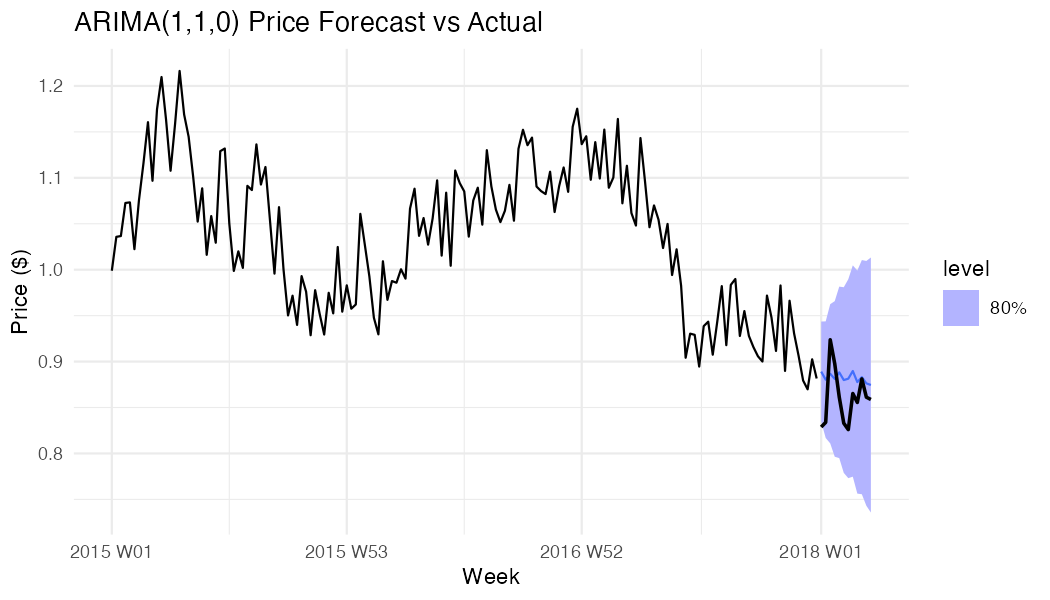
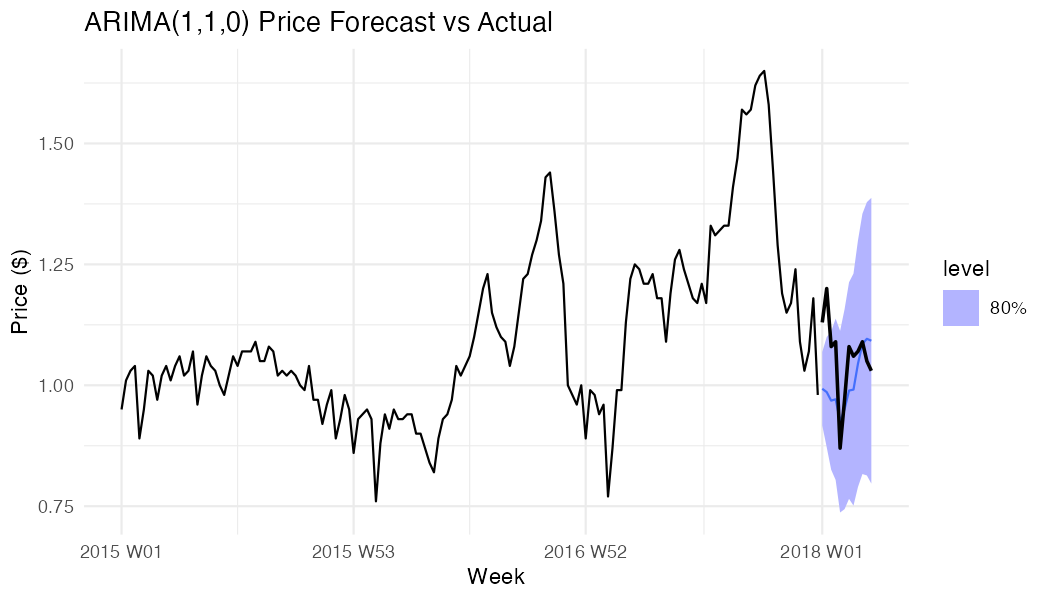
Restructure: move data to dataset/, add future modelling section
- Move avocado.csv to dataset/avocado.csv
- Update all code paths (Rmd, scripts)
- Add dataset/README.md for data documentation
- Add 'Current State' and 'Future Modelling Strategies' sections to README
- Regenerate figures with real data

Made-with: Cursor

diff --git a/Avocado_Project/avocado_forecasting_paper.tex b/Avocado_Project/avocado_forecasting_paper.tex
@@ -841,7 +841,8 @@ Based on our analysis:
 
 \begin{verbatim}
 Operations_Mgmt_Project/
-|-- avocado.csv                      # Raw data
+|-- dataset/
+|   |-- avocado.csv                  # Raw data
 |-- Avocado_Consolidated_Report.Rmd  # Main analysis code
 |-- export_figures_tables.R          # Figure/table export script
 |-- figures/                         # Exported visualizations (PNG/PDF)

diff --git a/README.md b/README.md
@@ -88,6 +88,33 @@ Ljung-Box on ARIMA(1,1,0) residuals: p ≈ 0.86. Residuals consistent with white
 - **Forecast difficulty:** Lower-volume PLU 4770 (median ~700K/week) has higher MAPE (13.9%) than high-volume 4046 (10.9M/week, 7.1%). Fewer units and larger relative shocks make small-volume series harder to forecast.
 - **Business impact:** For $1M weekly avocado revenue, ARIMA reduces forecast error by ~$20K/week vs Naive. At scale, this supports substantial inventory and waste reduction.
 
+## Current State and Where We Left Off
+
+The project delivers production-ready ARIMA models for price and volume forecasting. We completed:
+
+- Full EDA and ACF/PACF-driven model selection
+- ARIMA(1,1,0) for price and ARIMA(0,1,1) for volume and all PLUs
+- Baseline comparison (SES, Naive, Bayesian AR(1))
+- Residual diagnostics and Ljung-Box validation
+- 12-week out-of-sample evaluation and business-value translation
+
+The Bayesian AR(1) on differenced log-prices was tested but underperformed due to cumulative reconstruction error; SARIMA was evaluated but did not improve AICc with ~3 years of data.
+
+## Future Modelling Strategies
+
+Extensions that could improve or extend the current work:
+
+| Direction | Description |
+|-----------|-------------|
+| **SARIMA with more data** | Once 5+ years of data are available, seasonal ARIMA at period 52 may capture annual patterns (e.g. Super Bowl, harvest cycles) more reliably. |
+| **Prophet / ETS with seasonality** | Additive seasonality models (Prophet, ETS with seasonal terms) could handle weekly and annual patterns without the parameter burden of SARIMA. |
+| **Exogenous variables** | Incorporate weather (drought, frost), trade policy (tariffs), and supply-side shocks as regressors in ARIMAX or dynamic regression. |
+| **Regional hierarchical models** | Model TotalUS as an aggregate of regional forecasts, or use hierarchical time series (e.g. `hts`) for coherent national and regional predictions. |
+| **Bayesian ARIMA** | Full Bayesian ARIMA (e.g. via `brms` or Stan) for proper uncertainty quantification without the reconstruction issues of the current AR(1) on differenced log-prices. |
+| **Neural / ML baselines** | LSTM, N-BEATS, or similar for comparison; useful if non-linear patterns or long-range dependencies matter. |
+| **Ensemble methods** | Combine ARIMA with ETS or Prophet via simple averaging or stacking to reduce forecast variance. |
+| **Demand segmentation** | Separate models for organic vs conventional, or bagged vs bulk, if category-level forecasts are needed. |
+
 ## Recommendations
 
 - Use ARIMA(1,1,0) for price and ARIMA(0,1,1) for volume and all PLUs.
@@ -99,7 +126,7 @@ Ljung-Box on ARIMA(1,1,0) residuals: p ≈ 0.86. Residuals consistent with white
 
 ```r
 install.packages(c("fable", "tsibble", "feasts", "fabletools", "tidyverse", "brms", "gt"))
-# If avocado.csv is missing, run: source("scripts/fetch_or_generate_data.R")
+# If dataset/avocado.csv is missing, run: source("scripts/fetch_or_generate_data.R")
 rmarkdown::render("avocado_forecasting_analysis.Rmd")
 # Regenerate README figures: Rscript scripts/run_analysis_and_figures.R
 ```
@@ -110,7 +137,9 @@ Data: [Kaggle Avocado Prices](https://www.kaggle.com/datasets/neuromusic/avocado
 
 ```
 Avocado Project/
-├── avocado.csv                       # Raw data (from Kaggle)
+├── dataset/
+│   ├── avocado.csv                   # Raw data (from Kaggle)
+│   └── README.md                     # Data documentation
 ├── avocado_forecasting_analysis.Rmd   # Main analysis (recommended)
 ├── avocado_plu_forecasting.Rmd       # PLU-only ARIMA workflow
 ├── scripts/

diff --git a/dataset/README.md b/dataset/README.md
@@ -1,0 +1,11 @@
+# Dataset
+
+## avocado.csv
+
+Hass Avocado Board retail scanner data. Weekly prices and volumes across 54 U.S. regions, January 2015 – March 2018.
+
+**Source:** [Kaggle – Avocado Prices](https://www.kaggle.com/datasets/neuromusic/avocado-prices)
+
+**Columns:** Date, AveragePrice, Total Volume, 4046, 4225, 4770, Total Bags, Small Bags, Large Bags, XLarge Bags, type, year, region
+
+If the file is missing, run from project root: `source("scripts/fetch_or_generate_data.R")` to generate synthetic data.
